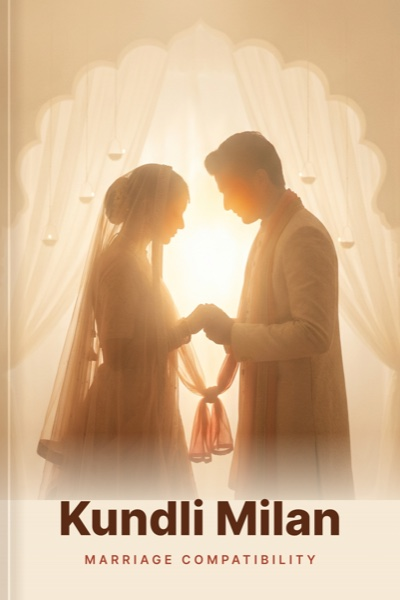
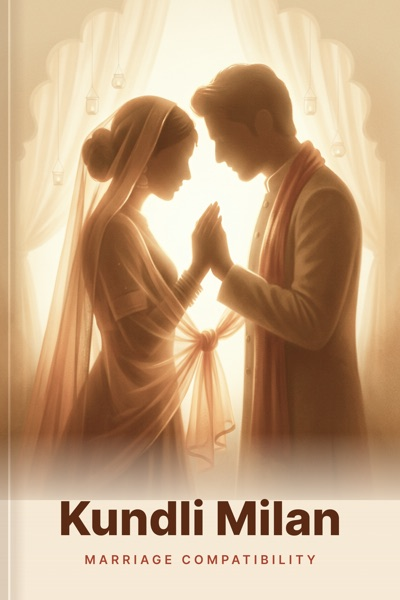
Kundali Milan gets its own cover, and an empty field says one thing
The cover is the approved painting from 3466:13910, exported at the same 400
by 600 every other cover is cut to. The standing book is built from that face,
so swapping the one file redraws the 3D copy in the picker, the carousel, the
chat offer and the history row at once - 3466:13919 is that same book, and it
is what the page now shows.

The details form follows the live app rather than my own invention. Empty, a
box carries one grey prompt and nothing else; the notched label only arrives
when there is a value to label. A label sitting over an empty box says the
same word twice, and the version I had printed both from the start. The prompt
is the readable grey the real form uses, not the lighter hint grey, because in
an empty field it is the only thing there.

diff --git a/index.html b/index.html
@@ -18,7 +18,7 @@
      The manifest deliberately carries NO theme_color: that key, not the
      manifest itself, is what makes iOS 16.4+ paint its own opaque status bar
      and ignore black-translucent. -->
-<link rel="manifest" href="manifest.webmanifest?v=202610271210">
+<link rel="manifest" href="manifest.webmanifest?v=202610271219">
 <!-- PNG, not SVG. iOS ignores an SVG apple-touch-icon and SVG manifest icons
      outright, and an un-iconable manifest is one iOS can decline — dropping the
      app back onto the legacy apple-* path, which is the path that hands it a
@@ -30,8 +30,8 @@
 <link rel="preconnect" href="https://fonts.googleapis.com">
 <link rel="preconnect" href="https://fonts.gstatic.com" crossorigin>
 <link rel="stylesheet" href="https://fonts.googleapis.com/css2?family=Inter:wght@400;500;600;700&family=Cormorant+Infant:wght@600;700&family=Noto+Sans+Devanagari:wght@400;500;600;700&display=swap">
-<link rel="stylesheet" href="styles.css?v=202610271210">
-<link rel="stylesheet" href="mobile.css?v=202610271210">
+<link rel="stylesheet" href="styles.css?v=202610271219">
+<link rel="stylesheet" href="mobile.css?v=202610271219">
 </head>
 <body>
 
@@ -278,7 +278,7 @@
             <!-- Versioned like the stylesheets. The file keeps its name when the
                  clip is recut, so without this an installed home-screen app goes
                  on playing whichever take it cached the day it was added. -->
-            <source src="assets/r2-hero.mp4?v=202610271210" type="video/mp4">
+            <source src="assets/r2-hero.mp4?v=202610271219" type="video/mp4">
           </video>
           <!-- The painted cover, standing closed. The open-book drawing is gone:
                it was a stock illustration of a book, not this report. -->
@@ -418,21 +418,30 @@
         <!-- His half is empty and comes first, because it is the only part of
              this screen that is actually work. -->
         <h3 class="mt-h">Enter Boy's Details</h3>
+        <!-- Empty, the box carries one grey prompt and nothing else; the
+             notched label only appears once there is a value to label, which
+             is how the live app's own details form behaves (517:21478). The
+             input comes before the label in the markup so `placeholder-shown`
+             can reach it with a plain sibling selector. -->
         <div class="mt-card">
-          <label class="fld"><span>Name</span>
-            <input type="text" id="bName" autocomplete="off" placeholder=" ">
+          <label class="fld">
+            <input type="text" id="bName" autocomplete="off" placeholder="Enter Name">
+            <span>Name</span>
           </label>
-          <label class="fld"><span>Date of Birth</span>
-            <input type="text" id="bDob" inputmode="numeric" autocomplete="off" placeholder="DD/MM/YYYY">
+          <label class="fld">
+            <input type="text" id="bDob" inputmode="numeric" autocomplete="off" placeholder="Select Date of Birth">
+            <span>Date of Birth</span>
             <i class="fld-ic" aria-hidden="true">
               <svg width="20" height="20" viewBox="0 0 20 20" fill="none"><rect x="2.5" y="3.75" width="15" height="13.75" rx="2.5" stroke="#475467" stroke-width="1.4"/><path d="M2.5 8.125h15M6.875 2.5v2.5M13.125 2.5v2.5" stroke="#475467" stroke-width="1.4" stroke-linecap="round"/></svg>
             </i>
           </label>
-          <label class="fld"><span>Place of Birth</span>
-            <input type="text" id="bPlace" autocomplete="off" placeholder=" ">
+          <label class="fld">
+            <input type="text" id="bPlace" autocomplete="off" placeholder="Enter Place of Birth">
+            <span>Place of Birth</span>
           </label>
-          <label class="fld"><span>Time of Birth</span>
-            <input type="text" id="bTime" autocomplete="off" placeholder="HH:MM">
+          <label class="fld">
+            <input type="text" id="bTime" autocomplete="off" placeholder="Select Time of Birth">
+            <span>Time of Birth</span>
             <i class="fld-ic" aria-hidden="true">
               <svg width="20" height="20" viewBox="0 0 20 20" fill="none"><circle cx="10" cy="10" r="7.5" stroke="#475467" stroke-width="1.4"/><path d="M10 5.625V10l2.8 2.8" stroke="#475467" stroke-width="1.4" stroke-linecap="round" stroke-linejoin="round"/></svg>
             </i>
@@ -445,20 +454,24 @@
              the report is about to be built on. -->
         <h3 class="mt-h">Enter Girl's Details <small>From your profile</small></h3>
         <div class="mt-card">
-          <label class="fld"><span>Name</span>
-            <input type="text" id="gName" autocomplete="off" placeholder=" " value="Mansi Sharma">
+          <label class="fld">
+            <input type="text" id="gName" autocomplete="off" placeholder="Enter Name" value="Mansi Sharma">
+            <span>Name</span>
           </label>
-          <label class="fld"><span>Date of Birth</span>
-            <input type="text" id="gDob" inputmode="numeric" autocomplete="off" placeholder="DD/MM/YYYY" value="30/10/1996">
+          <label class="fld">
+            <input type="text" id="gDob" inputmode="numeric" autocomplete="off" placeholder="Select Date of Birth" value="30/10/1996">
+            <span>Date of Birth</span>
             <i class="fld-ic" aria-hidden="true">
               <svg width="20" height="20" viewBox="0 0 20 20" fill="none"><rect x="2.5" y="3.75" width="15" height="13.75" rx="2.5" stroke="#475467" stroke-width="1.4"/><path d="M2.5 8.125h15M6.875 2.5v2.5M13.125 2.5v2.5" stroke="#475467" stroke-width="1.4" stroke-linecap="round"/></svg>
             </i>
           </label>
-          <label class="fld"><span>Place of Birth</span>
-            <input type="text" id="gPlace" autocomplete="off" placeholder=" " value="Pune, Maharashtra">
+          <label class="fld">
+            <input type="text" id="gPlace" autocomplete="off" placeholder="Enter Place of Birth" value="Pune, Maharashtra">
+            <span>Place of Birth</span>
           </label>
-          <label class="fld"><span>Time of Birth</span>
-            <input type="text" id="gTime" autocomplete="off" placeholder="HH:MM" value="04:20">
+          <label class="fld">
+            <input type="text" id="gTime" autocomplete="off" placeholder="Select Time of Birth" value="04:20">
+            <span>Time of Birth</span>
             <i class="fld-ic" aria-hidden="true">
               <svg width="20" height="20" viewBox="0 0 20 20" fill="none"><circle cx="10" cy="10" r="7.5" stroke="#475467" stroke-width="1.4"/><path d="M10 5.625V10l2.8 2.8" stroke="#475467" stroke-width="1.4" stroke-linecap="round" stroke-linejoin="round"/></svg>
             </i>
@@ -949,8 +962,8 @@
 </div><!-- /.phone -->
 </main>
 
-<script src="data.js?v=202610271210"></script>
-<script src="app.js?v=202610271210"></script>
-<script src="mobile.js?v=202610271210"></script>
+<script src="data.js?v=202610271219"></script>
+<script src="app.js?v=202610271219"></script>
+<script src="mobile.js?v=202610271219"></script>
 </body>
 </html>

diff --git a/styles.css b/styles.css
@@ -2199,12 +2199,20 @@ hr.thin{border:0;border-top:1px solid var(--g200);margin:12px 0}
 .fld{position:relative;display:block;margin-top:18px}
 .fld:first-child{margin-top:0}
 .fld > span{position:absolute;top:-7px;left:11px;z-index:1;padding:0 5px;
-  background:#fff;font:400 12px/14px var(--sans);color:var(--g500);pointer-events:none}
+  background:#fff;font:400 12px/14px var(--sans);color:var(--g500);pointer-events:none;
+  transition:opacity .15s ease}
+/* Empty, there is no notch — only the grey prompt inside the box, which is how
+   the live details form reads (517:21478). A label on a box with nothing in it
+   says the same word twice; it earns its place the moment the placeholder
+   leaves and the value needs naming. */
+.fld input:placeholder-shown ~ span{opacity:0}
 .fld input{width:100%;height:52px;padding:0 44px 0 15px;
   border:1px solid var(--g300);border-radius:10px;background:#fff;
   font:400 16px/24px var(--sans);color:var(--g900);
   appearance:none;outline:none;transition:border-color .18s ease,box-shadow .18s ease}
-.fld input::placeholder{color:var(--g400)}
+/* The prompt is the only thing in an empty box, so it has to be readable
+   rather than a hint — g400 on white was close to a disabled field. */
+.fld input::placeholder{color:var(--g500)}
 .fld input:focus{border-color:var(--brand);box-shadow:0 0 0 3px var(--brand50)}
 .fld-ic{position:absolute;right:14px;top:50%;margin-top:-10px;line-height:0;pointer-events:none}
 /* The one empty field, pointed at. Get Report stays live and does the finding,

diff --git a/app.js b/app.js
@@ -128,7 +128,7 @@ var REPORTS = [
     // Figma 3466:13910 for the cover, 3459:22391 for the spread, 3457:6843 for
     // the hero ground.
     art: {
-      closed: 'assets/cover-marriage.jpg?v=4',
+      closed: 'assets/cover-marriage.jpg?v=5',
       open: 'assets/spread-marriage.png?v=3',
       hero: 'assets/bg-marriage.jpg?v=2',
       // Cropped from the top rather than centred. At 8% the couple sat low
